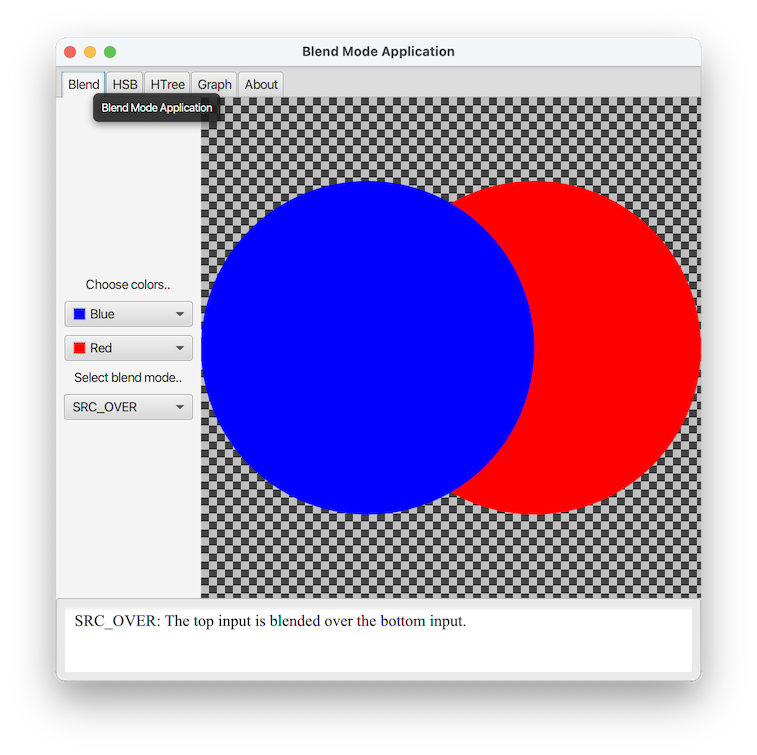
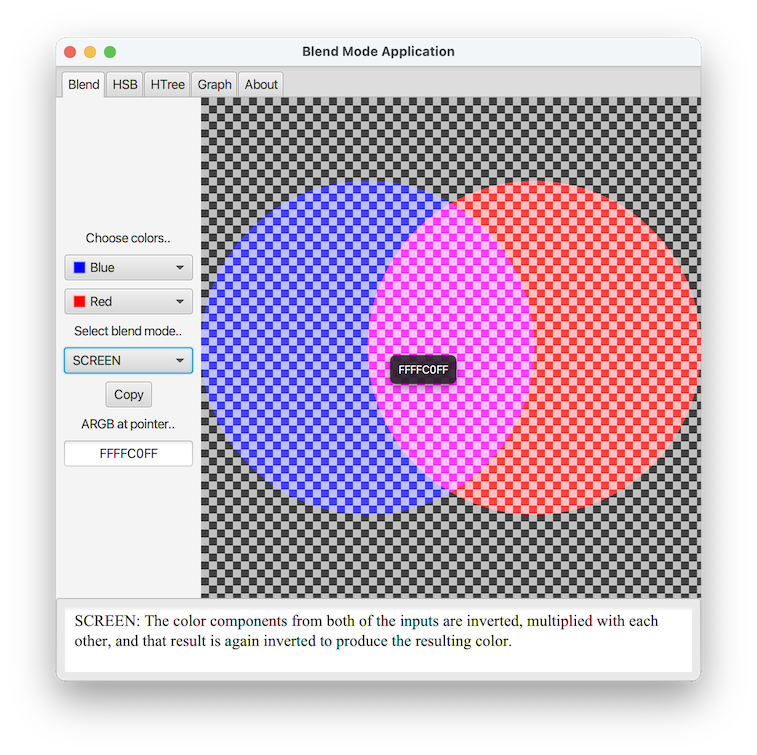
BlendApp update.

Changed region(s): [[0.0608, 0.2132, 0.9419, 0.7007], [0.0911, 0.7921, 0.8811, 0.8834], [0.1215, 0.1219, 0.3038, 0.1828]]

diff --git a/src/main/java/org/example/gui/BlendView.java b/src/main/java/org/example/gui/BlendView.java
@@ -13,7 +13,6 @@ import javafx.scene.input.Clipboard;
 import javafx.scene.input.ClipboardContent;
 import javafx.scene.layout.Pane;
 import javafx.scene.paint.Color;
-import javafx.util.Duration;
 import org.example.Modular;
 
 /**
@@ -22,7 +21,10 @@ import org.example.Modular;
 public final class BlendView extends Pane {
 
     private static final int S = 8;
-    private final StringProperty argbProperty = new SimpleStringProperty();
+    /**
+     * The {@code BlendMode} result at the pointer as an ARGB hex string.
+     */
+    private final StringProperty argb = new SimpleStringProperty();
     private final BlendModel model;
     private final Canvas canvas = new Canvas();
     private final InvalidationListener listener = (o) -> update();
@@ -45,18 +47,21 @@ public final class BlendView extends Pane {
         this.model.botProperty().addListener(listener);
         this.canvas.setOnMouseMoved(e -> {
             int aRGB = image.getPixelReader().getArgb((int) e.getX(), (int) e.getY());
-            argbProperty.set(Integer.toHexString(aRGB).toUpperCase());
+            argb.set(Integer.toHexString(aRGB).toUpperCase());
         });
-        this.canvas.setOnMouseExited(e -> argbProperty.set(""));
+        this.canvas.setOnMouseExited(e -> argb.set(""));
         Tooltip tooltip = new Tooltip();
         Tooltip.install(this.canvas, tooltip);
-        tooltip.textProperty().bind(argbProperty);
+        tooltip.textProperty().bind(argb);
     }
 
     public StringProperty argbProperty() {
-        return argbProperty;
+        return argb;
     }
 
+    /**
+     * Copy the current image to clipboard.
+     */
     public void copyImage() {
         Clipboard clipboard = Clipboard.getSystemClipboard();
         ClipboardContent content = new ClipboardContent();
@@ -86,6 +91,7 @@ public final class BlendView extends Pane {
         g.fillOval(w / 3, h / 6, 2 * w / 3, 2 * h / 3);
         g.setFill(model.topProperty().get());
         g.fillOval(0, h / 6, 2 * w / 3, 2 * h / 3);
+        // Update snapshot image.
         if (w > 0 && h > 0) {
             int wide = (int) w;
             int high = (int) h;

diff --git a/src/main/java/org/example/gui/BlendApp.java b/src/main/java/org/example/gui/BlendApp.java
@@ -65,10 +65,11 @@ public class BlendApp extends Application implements Modular {
         copyButton.setOnAction(t -> view.copyImage());
         buttonBox.getChildren().add(copyButton);
         TextField text = new TextField();
+        text.setPrefColumnCount(8);
         text.setAlignment(Pos.CENTER);
         text.setEditable(false);
         text.textProperty().bind(view.argbProperty());
-        buttonBox.getChildren().add(new Label("ARGB at mouse:"));
+        buttonBox.getChildren().add(new Label("ARGB at pointer…"));
         buttonBox.getChildren().add(text);
         buttonBox.setPadding(new Insets(8, 8, 8, 8));
         return buttonBox;
